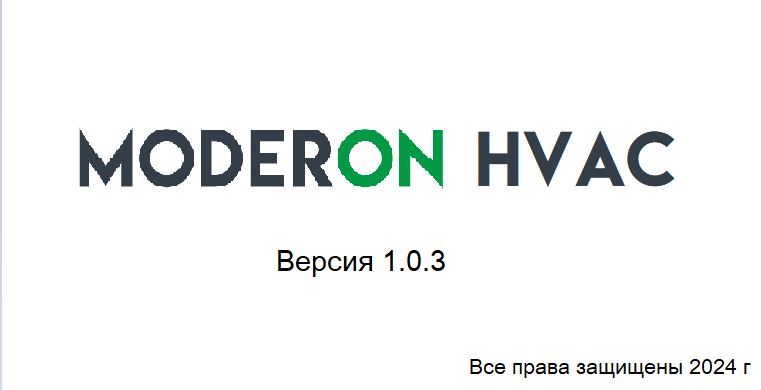
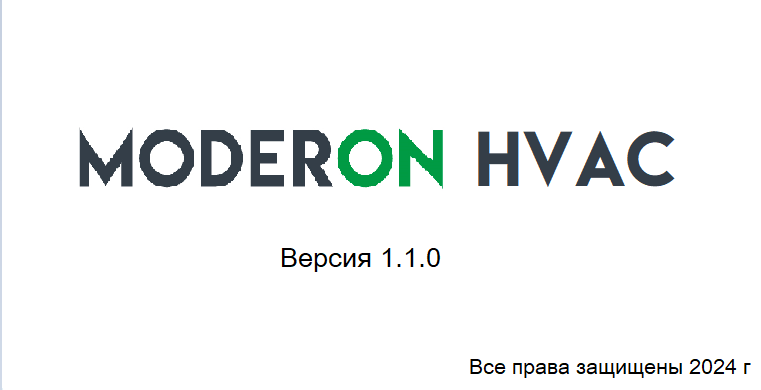
release v.1.1.0.0 is completed

Changed region(s): [[0.3627, 0.6154, 0.6045, 0.7077]]

diff --git a/Moderon/Form1.Designer.cs b/Moderon/Form1.Designer.cs
@@ -727,9 +727,9 @@ namespace Moderon
             this.backHelpButton = new System.Windows.Forms.Button();
             this.label_comboSysType = new System.Windows.Forms.Label();
             this.loadCanPanel = new System.Windows.Forms.Panel();
-            this.backConnectLabel = new System.Windows.Forms.Label();
             this.processWriteLabel = new System.Windows.Forms.Label();
             this.progressBarWrite = new System.Windows.Forms.ProgressBar();
+            this.backConnectLabel = new System.Windows.Forms.Label();
             this.dataMatchPLC_label = new System.Windows.Forms.Label();
             this.readCanButton = new System.Windows.Forms.Button();
             this.loadCanButton = new System.Windows.Forms.Button();
@@ -761,7 +761,6 @@ namespace Moderon
             this.label61 = new System.Windows.Forms.Label();
             this.pic_signalsReady = new System.Windows.Forms.PictureBox();
             this.pictureBoxLogo = new System.Windows.Forms.PictureBox();
-            this.progressWritePanel = new System.Windows.Forms.Panel();
             this.menuStrip1.SuspendLayout();
             this.mainPage.SuspendLayout();
             this.sensorsPage.SuspendLayout();
@@ -837,7 +836,6 @@ namespace Moderon
             this.panelBlocks.SuspendLayout();
             ((System.ComponentModel.ISupportInitialize)(this.pic_signalsReady)).BeginInit();
             ((System.ComponentModel.ISupportInitialize)(this.pictureBoxLogo)).BeginInit();
-            this.progressWritePanel.SuspendLayout();
             this.SuspendLayout();
             // 
             // menuStrip1
@@ -9946,7 +9944,8 @@ namespace Moderon
             // 
             // loadCanPanel
             // 
-            this.loadCanPanel.Controls.Add(this.progressWritePanel);
+            this.loadCanPanel.Controls.Add(this.progressBarWrite);
+            this.loadCanPanel.Controls.Add(this.processWriteLabel);
             this.loadCanPanel.Controls.Add(this.backConnectLabel);
             this.loadCanPanel.Controls.Add(this.dataMatchPLC_label);
             this.loadCanPanel.Controls.Add(this.readCanButton);
@@ -9976,6 +9975,26 @@ namespace Moderon
             this.loadCanPanel.TabIndex = 45;
             this.loadCanPanel.Visible = false;
             // 
+            // processWriteLabel
+            // 
+            this.processWriteLabel.AutoSize = true;
+            this.processWriteLabel.Font = new System.Drawing.Font("Verdana", 9.75F, System.Drawing.FontStyle.Italic, System.Drawing.GraphicsUnit.Point, ((byte)(204)));
+            this.processWriteLabel.Location = new System.Drawing.Point(33, 384);
+            this.processWriteLabel.Name = "processWriteLabel";
+            this.processWriteLabel.Size = new System.Drawing.Size(202, 16);
+            this.processWriteLabel.TabIndex = 78;
+            this.processWriteLabel.Text = "Идёт запись в контроллер...";
+            this.processWriteLabel.Visible = false;
+            // 
+            // progressBarWrite
+            // 
+            this.progressBarWrite.ForeColor = System.Drawing.Color.DarkGreen;
+            this.progressBarWrite.Location = new System.Drawing.Point(31, 409);
+            this.progressBarWrite.Name = "progressBarWrite";
+            this.progressBarWrite.Size = new System.Drawing.Size(254, 23);
+            this.progressBarWrite.TabIndex = 77;
+            this.progressBarWrite.Visible = false;
+            // 
             // backConnectLabel
             // 
             this.backConnectLabel.AutoSize = true;
@@ -9987,24 +10006,6 @@ namespace Moderon
             this.backConnectLabel.TabIndex = 79;
             this.backConnectLabel.Text = "Требуется закрыть соединение для возврата";
             this.backConnectLabel.Visible = false;
-            // 
-            // processWriteLabel
-            // 
-            this.processWriteLabel.AutoSize = true;
-            this.processWriteLabel.Font = new System.Drawing.Font("Verdana", 9.75F, System.Drawing.FontStyle.Italic, System.Drawing.GraphicsUnit.Point, ((byte)(204)));
-            this.processWriteLabel.Location = new System.Drawing.Point(3, 7);
-            this.processWriteLabel.Name = "processWriteLabel";
-            this.processWriteLabel.Size = new System.Drawing.Size(202, 16);
-            this.processWriteLabel.TabIndex = 78;
-            this.processWriteLabel.Text = "Идёт запись в контроллер...";
-            // 
-            // progressBarWrite
-            // 
-            this.progressBarWrite.ForeColor = System.Drawing.Color.DarkGreen;
-            this.progressBarWrite.Location = new System.Drawing.Point(5, 32);
-            this.progressBarWrite.Name = "progressBarWrite";
-            this.progressBarWrite.Size = new System.Drawing.Size(254, 23);
-            this.progressBarWrite.TabIndex = 77;
             // 
             // dataMatchPLC_label
             // 
@@ -10366,16 +10367,6 @@ namespace Moderon
             this.pictureBoxLogo.TabIndex = 2;
             this.pictureBoxLogo.TabStop = false;
             // 
-            // progressWritePanel
-            // 
-            this.progressWritePanel.Controls.Add(this.processWriteLabel);
-            this.progressWritePanel.Controls.Add(this.progressBarWrite);
-            this.progressWritePanel.Location = new System.Drawing.Point(31, 379);
-            this.progressWritePanel.Name = "progressWritePanel";
-            this.progressWritePanel.Size = new System.Drawing.Size(263, 73);
-            this.progressWritePanel.TabIndex = 80;
-            this.progressWritePanel.Visible = false;
-            // 
             // Form1
             // 
             this.AutoScaleDimensions = new System.Drawing.SizeF(7F, 13F);
@@ -10522,8 +10513,6 @@ namespace Moderon
             this.panelBlocks.PerformLayout();
             ((System.ComponentModel.ISupportInitialize)(this.pic_signalsReady)).EndInit();
             ((System.ComponentModel.ISupportInitialize)(this.pictureBoxLogo)).EndInit();
-            this.progressWritePanel.ResumeLayout(false);
-            this.progressWritePanel.PerformLayout();
             this.ResumeLayout(false);
             this.PerformLayout();
 
@@ -11257,7 +11246,6 @@ namespace Moderon
         private ProgressBar progressBarWrite;
         private Label processWriteLabel;
         private Label backConnectLabel;
-        private Panel progressWritePanel;
     }
 }
 

diff --git a/Moderon/signalsTableUI.cs b/Moderon/signalsTableUI.cs
@@ -424,7 +424,10 @@ namespace Moderon
                 if (cm.Items[i].ToString() == name)                                                 // Есть совпадение по имени в списке
                 {
                     cm.Items.Remove(name);                                                          // Удаление элемента по имени
-                    if (!typeCombo.Items.Contains(DI)) typeCombo.Items.Add(DI);                     // Добавление варианта DI, если был удален ранее
+                    if (!typeCombo.Items.Contains(DI))
+                    {
+                        typeCombo.Items.Add(DI);                                                    // Добавление варианта DI, если был удален ранее
+                    }
                     typeCombo.SelectedItem = DI; typeCombo.Enabled = false;                         // Блокировка и выбор DI по умолчанию typeCombo
 
                     if (cm.Items.Count > 1)                                                         // Осталось больше одного элемента в списке
@@ -633,21 +636,28 @@ namespace Moderon
         ///<summary>Метод для изменения UI typeCombo типа сигнала AI</summary>
         private void UI_typeCombo_SelectedIndexChanged(ComboBox typeCombo, ComboBox ui_combo, Label label)
         {
-            if (ui_combo.SelectedItem == null) return;
-
-            string name = string.Concat(ui_combo.SelectedItem);
-            Ui ui_find = list_ui.Find(x => x.Name == name);             // Поиск сигнала UI по имени в списке
-
-            if (ui_find != null && typeCombo.Enabled)                   // Проверка найденного сигнала и доступности typeCombo
+            try
             {
-                if (typeCombo.SelectedIndex == 0)                       // Выбран тип NTC
-                    ui_find.SetType(NTC);
-                else if (typeCombo.SelectedIndex == 1)                  // Выбран тип 4-20 мА
-                    ui_find.SetType(mA_4_20);
-                else if (typeCombo.SelectedIndex == 2)                  // Выбран тип DI
-                    ui_find.SetType(DI);
-                
-                if (showCode) SetCodeLabel_UI(ui_find, label);           // Отображение нового числового кода
+                if (ui_combo.SelectedIndex == -1) return;
+
+                string name = string.Concat(ui_combo.SelectedItem);
+                Ui ui_find = list_ui.Find(x => x.Name == name);             // Поиск сигнала UI по имени в списке
+
+                if (ui_find != null && typeCombo.Enabled)                   // Проверка найденного сигнала и доступности typeCombo
+                {
+                    if (typeCombo.SelectedIndex == 0)                       // Выбран тип NTC
+                        ui_find.SetType(NTC);
+                    else if (typeCombo.SelectedIndex == 1)                  // Выбран тип 4-20 мА
+                        ui_find.SetType(mA_4_20);
+                    else if (typeCombo.SelectedIndex == 2)                  // Выбран тип DI
+                        ui_find.SetType(DI);
+
+                    if (showCode) SetCodeLabel_UI(ui_find, label);           // Отображение нового числового кода
+                }
+            }
+            catch (ArgumentOutOfRangeException)
+            {
+                return;
             }
         }
 

diff --git a/Moderon/LoadCan.cs b/Moderon/LoadCan.cs
@@ -248,7 +248,9 @@ namespace Moderon
             byte tryWrite_counter = WRITE_TRY;              // Счётчик количества попыток записи
             byte codeAnswer;                                // Код ответа при попытке записи
 
-            progressWritePanel.Visible = true;  
+            processWriteLabel.Visible = true;               // Отображение подписи для полосы загрузки
+            progressBarWrite.Visible = true;                // Отображение полосы загрузки
+            Refresh();                                      // Обновление формы для отображения элементов
 
             progressBarWrite.Minimum = 0;
             progressBarWrite.Maximum = 105;
@@ -353,7 +355,8 @@ namespace Moderon
             if (writeSuccess) MessageBox.Show("Запись в ПЛК успешно завершена!", 
                 "Операция выполнена", MessageBoxButtons.OK, MessageBoxIcon.Information);
 
-            progressWritePanel.Visible = false;         // Скрытие панели прогресса загрузки
+            processWriteLabel.Visible = false;          // Скрытие панели прогресса загрузки
+            progressBarWrite.Visible = false;           // Скрытие прогресса записи после загрузки
 
             if (writeSuccess)                           // При успешной записи данных
             {

diff --git a/Moderon/CmdWord.cs b/Moderon/CmdWord.cs
@@ -927,7 +927,7 @@ namespace Moderon
         {
             CommandWord_6();
             if (ignoreEvents) return;
-              PrChanSensCheck_signalsAICheckedChanged(this, e);                                   // Сигналы AI
+            PrChanSensCheck_signalsAICheckedChanged(this, e);                                   // Сигналы AI
         }
 
         ///<summary>Выбрали датчик температуры наружного воздуха</summary>

diff --git a/Moderon/changes.md b/Moderon/changes.md
@@ -760,3 +760,6 @@
 - `WriteFc6()` теперь возвращает `byte` как код выполнения процедуры записи 
 - добавлен `PLC_connectionError()` для проверки разрыва соединения ПЛК
 
+15.03.24 (пятница)
+
+- `LoadCanButton_Click()` добавлен вызов `Refresh()` для отображения элементов
